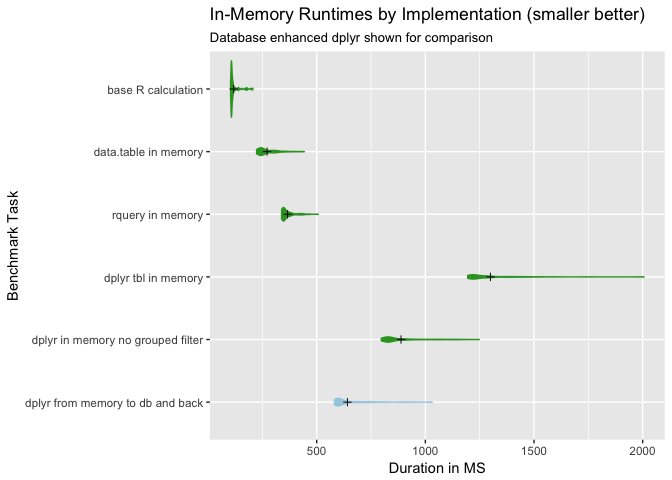
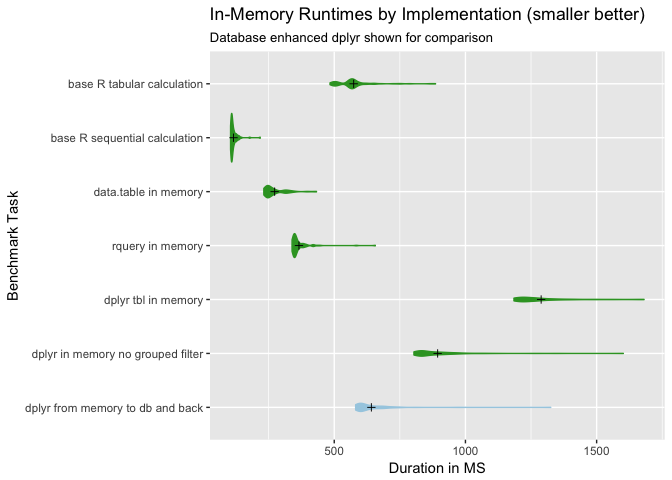
update

diff --git a/extras/QTimingFollowup/QTiming.md b/extras/QTimingFollowup/QTiming.md
@@ -142,6 +142,7 @@ We now build and extended version of the example from [Let’s Have Some Sympath
 ``` r
 nrep <- 10000
 
+
 dLocal <- data.frame(
   subjectID = c(1,                   
                 1,
@@ -209,11 +210,50 @@ scale <- 0.237
 
 # base-R function
 # could also try base::split() or base:table()
-base_r_calculate <- function(.) {
-  cats <- base::sort(base::unique(.$surveyCategory))
+base_r_calculate_tabular <- function(d) {
+  d <- d[order(d$subjectID, d$surveyCategory), , drop=FALSE]
+  # compute un-normalized probability
+  d$probability <- exp(d$assessmentTotal * scale)
+  # set up of for selection
+  dmax <- stats::aggregate(d$probability, 
+                           by = list(subjectID = d$subjectID), 
+                           FUN = max)
+  maxv <- dmax$x
+  names(maxv) <- dmax$subjectID
+  # set up for normalization
+  dsum <- stats::aggregate(d$probability, 
+                           by = list(subjectID = d$subjectID), 
+                           FUN = sum)
+  sumv <- dsum$x
+  names(sumv) <- dsum$subjectID
+  # start selection
+  d$maxv <- maxv[d$subjectID]
+  d <- d[d$probability >= d$maxv, 
+                   , 
+                   drop=FALSE]
+  # de-dup
+  d$rownum <- seq_len(nrow(d))
+  drow <-  stats::aggregate(d$rownum, 
+                           by = list(subjectID = d$subjectID), 
+                           FUN = min)
+  minv <- drow$x
+  names(minv) <- drow$subjectID
+  d$rmin <- minv[d$subjectID]
+  d <- d[d$rownum <= d$rmin, , drop=FALSE]
+  # renormalize
+  d$probability <- d$probability/sumv[d$subjectID]
+  d <- d[, c("subjectID", "surveyCategory", "probability")]
+  colnames(d)[[2]] <- "diagnosis"
+  d
+}
+
+# base-R function
+# could also try base::split() or base:table()
+base_r_calculate_brute_force <- function(d) {
+  cats <- base::sort(base::unique(d$surveyCategory))
   res <- NULL
   for(ci in cats) {
-    di <- .[.$surveyCategory == ci, , drop=FALSE]
+    di <- d[d$surveyCategory == ci, , drop=FALSE]
     di <- di[base::order(di$subjectID), , drop=FALSE]
     di$probability <- exp(di$assessmentTotal * scale)
     if(length(base::unique(di$subjectID))!=nrow(di)) {
@@ -266,8 +306,12 @@ rquery_pipeline <- . := {
 }
 
 
-base_R_calculation <- function() {
-  base_r_calculate(dLocal)
+base_R_brute_calculation <- function() {
+  base_r_calculate_brute_force(dLocal)
+}
+
+base_R_tabular_calculation <- function() {
+  base_r_calculate_tabular(dLocal)
 }
 
 rquery_local <- function() {
@@ -406,7 +450,7 @@ data.table_local <- function() {
 Let's inspect the functions.
 
 ``` r
-head(base_R_calculation())
+head(base_R_brute_calculation())
 ```
 
     ##   subjectID           diagnosis probability
@@ -416,6 +460,18 @@ head(base_R_calculation())
     ## 4       1_2 positive re-framing   0.5589742
     ## 5      10_1 withdrawal behavior   0.6706221
     ## 6      10_2 positive re-framing   0.5589742
+
+``` r
+head(base_R_tabular_calculation())
+```
+
+    ##    subjectID           diagnosis probability
+    ## 1        0_1 withdrawal behavior   0.6706221
+    ## 4        0_2 positive re-framing   0.5589742
+    ## 5        1_1 withdrawal behavior   0.6706221
+    ## 8        1_2 positive re-framing   0.5589742
+    ## 41      10_1 withdrawal behavior   0.6706221
+    ## 44      10_2 positive re-framing   0.5589742
 
 ``` r
 head(rquery_local())
@@ -553,6 +609,8 @@ head(data.table_local())
 
 Now let's measure the speeds with `microbenchmark`.
 
+base\_R\_brute\_calculation base\_R\_tabular\_calculation
+
 ``` r
 tm <- microbenchmark(
   "rquery in memory" = nrow(rquery_local()),
@@ -567,7 +625,8 @@ tm <- microbenchmark(
   "dplyr database count" = dplyr_database_count(),
   "dplyr database land" = dplyr_database_land(),
   "data.table in memory" = nrow(data.table_local()),
-  "base R calculation" = nrow(base_R_calculation())
+  "base R tabular calculation" = nrow(base_R_tabular_calculation()),
+  "base R sequential calculation" = nrow(base_R_brute_calculation())
 )
 saveRDS(tm, "qtimings.RDS")
 print(tm)
@@ -575,33 +634,35 @@ print(tm)
 
     ## Unit: milliseconds
     ##                               expr       min        lq      mean    median
-    ##                   rquery in memory  338.5778  345.0848  366.3083  352.5776
-    ##           rquery from db to memory  238.1384  242.9598  263.2348  248.3051
-    ##              rquery database count  201.5620  205.1261  219.3199  207.8607
-    ##               rquery database land  219.8073  224.3644  240.6531  227.4856
-    ##                    dplyr in memory 1184.5901 1218.1610 1294.3855 1259.1721
-    ##                dplyr tbl in memory 1195.1735 1216.3445 1299.4138 1239.3117
-    ##  dplyr in memory no grouped filter  797.7003  823.3247  887.9344  838.6137
-    ##   dplyr from memory to db and back  582.2046  593.7035  641.3167  606.4866
-    ##            dplyr from db to memory  380.5071  388.6457  418.5102  397.8149
-    ##               dplyr database count  362.8623  369.7437  393.7041  374.8956
-    ##                dplyr database land  409.0511  419.2396  453.5904  426.4157
-    ##               data.table in memory  223.6260  239.5823  271.6285  250.7280
-    ##                 base R calculation  103.6687  107.3793  117.8552  108.7494
+    ##                   rquery in memory  339.2819  346.5192  365.5742  352.0665
+    ##           rquery from db to memory  231.5717  241.7728  255.2745  248.3432
+    ##              rquery database count  199.4778  203.2662  218.1638  207.3330
+    ##               rquery database land  217.7878  222.1298  232.1719  226.3787
+    ##                    dplyr in memory 1184.7168 1216.0992 1295.3127 1252.2095
+    ##                dplyr tbl in memory 1185.1292 1213.8207 1288.5267 1250.9576
+    ##  dplyr in memory no grouped filter  803.8868  828.5966  894.1179  860.5143
+    ##   dplyr from memory to db and back  581.7443  595.5464  641.5124  613.4384
+    ##            dplyr from db to memory  380.1288  390.5660  421.6581  398.8316
+    ##               dplyr database count  366.0760  372.9545  404.8615  381.3254
+    ##                dplyr database land  413.1878  419.5564  445.5154  427.9188
+    ##               data.table in memory  231.8094  243.6267  272.8844  254.1875
+    ##         base R tabular calculation  484.2003  540.7298  574.0857  567.0941
+    ##      base R sequential calculation  104.9290  108.4058  116.1558  111.1875
     ##         uq       max neval
-    ##   376.7631  506.7574   100
-    ##   262.8230  444.6093   100
-    ##   222.1878  363.6475   100
-    ##   241.3619  367.6876   100
-    ##  1315.0064 1747.4000   100
-    ##  1306.6853 2006.2742   100
-    ##   907.5601 1248.0352   100
-    ##   653.5436 1031.8507   100
-    ##   428.0231  762.1354   100
-    ##   395.1924  612.0238   100
-    ##   461.2342  678.1096   100
-    ##   299.2129  442.9820   100
-    ##   114.0765  206.3084   100
+    ##   366.8266  656.4589   100
+    ##   263.9711  323.2430   100
+    ##   215.8895  382.0567   100
+    ##   233.4544  341.6554   100
+    ##  1316.9411 2266.1614   100
+    ##  1316.9795 1680.5972   100
+    ##   918.3206 1601.6495   100
+    ##   658.8230 1325.0461   100
+    ##   418.8582  930.1331   100
+    ##   410.8621  869.8656   100
+    ##   452.0623  834.5970   100
+    ##   288.9526  432.2933   100
+    ##   581.4651  885.9790   100
+    ##   118.3874  217.7817   100
 
 ``` r
 autoplot(tm)

diff --git a/extras/QTimingFollowup/plotexample.md b/extras/QTimingFollowup/plotexample.md
@@ -5,9 +5,9 @@ January 10, 2018
 
 As a follow-up to ["rquery: Fast Data Manipulation in R"](http://www.win-vector.com/blog/2018/01/rquery-fast-data-manipulation-in-r/) we [re-ran the experiment with a nice "base `R`" (or "pure `R`") implementation of the calculation added to the assessments](https://github.com/WinVector/rquery/blob/master/extras/QTimingFollowup/QTiming.md).
 
-It turns out base `R` is much faster than any of the alternatives.
+It turns out base `R` can be much faster than any of the alternatives.
 
-That should not come as a surprise, but we think there are some current gaps in R teaching that make it surprising to many. There is a bit of a "this package is in C/C++, so it is going to be fast" fallacy. Also it has probably been a while since somebody publicly investigated exactly how large the "this package is a little slower at runtime, but the notation allows faster development" trade off actually is (and one also should think hard on the stability and clarity of some newer notations).
+That should not come as a surprise, but we think there are some current gaps in R teaching that make it surprising to many. There is a bit of a "this package is in C/C++, so it is going to be fast" fallacy. Also it has probably been a while since somebody publicly investigated exactly how large the "this package is a little slower at runtime, but the notation allows faster development" trade off actually is.
 
 ``` r
 knitr::opts_chunk$set(echo = TRUE)
@@ -47,13 +47,15 @@ greycolor = "darkgrey"
 ```
 
 ``` r
-runs <- c("base R calculation",
+runs <- c("base R tabular calculation",
+          "base R sequential calculation",
           "data.table in memory", 
           "rquery in memory",
           "dplyr tbl in memory",
           "dplyr in memory no grouped filter",
           "dplyr from memory to db and back")
 colormap = runs := c(highlightcolor,
+                     highlightcolor,
                      highlightcolor,
                      highlightcolor,
                      highlightcolor,
@@ -78,8 +80,7 @@ summary <- tr %.>%
               durationMS := avg(time)/1000000 ) %.>%
   orderby(., "durationMS") %>%
   execute(.)
-baseTiming <- summary$durationMS[[which(summary$expr == 
-                                          "base R calculation")]]
+baseTiming <- min(summary$durationMS)
 summary$relativeDuration <- summary$durationMS / baseTiming
 
 knitr::kable(summary)
@@ -87,9 +88,10 @@ knitr::kable(summary)
 
 | expr                              |  durationMS|  relativeDuration|
 |:----------------------------------|-----------:|-----------------:|
-| base R calculation                |    117.8552|          1.000000|
-| data.table in memory              |    271.6285|          2.304765|
-| rquery in memory                  |    366.3083|          3.108122|
-| dplyr from memory to db and back  |    641.3167|          5.441566|
-| dplyr in memory no grouped filter |    887.9344|          7.534115|
-| dplyr tbl in memory               |   1299.4138|         11.025514|
+| base R sequential calculation     |    116.1558|          1.000000|
+| data.table in memory              |    272.8844|          2.349297|
+| rquery in memory                  |    365.5742|          3.147275|
+| base R tabular calculation        |    574.0857|          4.942377|
+| dplyr from memory to db and back  |    641.5124|          5.522862|
+| dplyr in memory no grouped filter |    894.1179|          7.697575|
+| dplyr tbl in memory               |   1288.5267|         11.093089|
